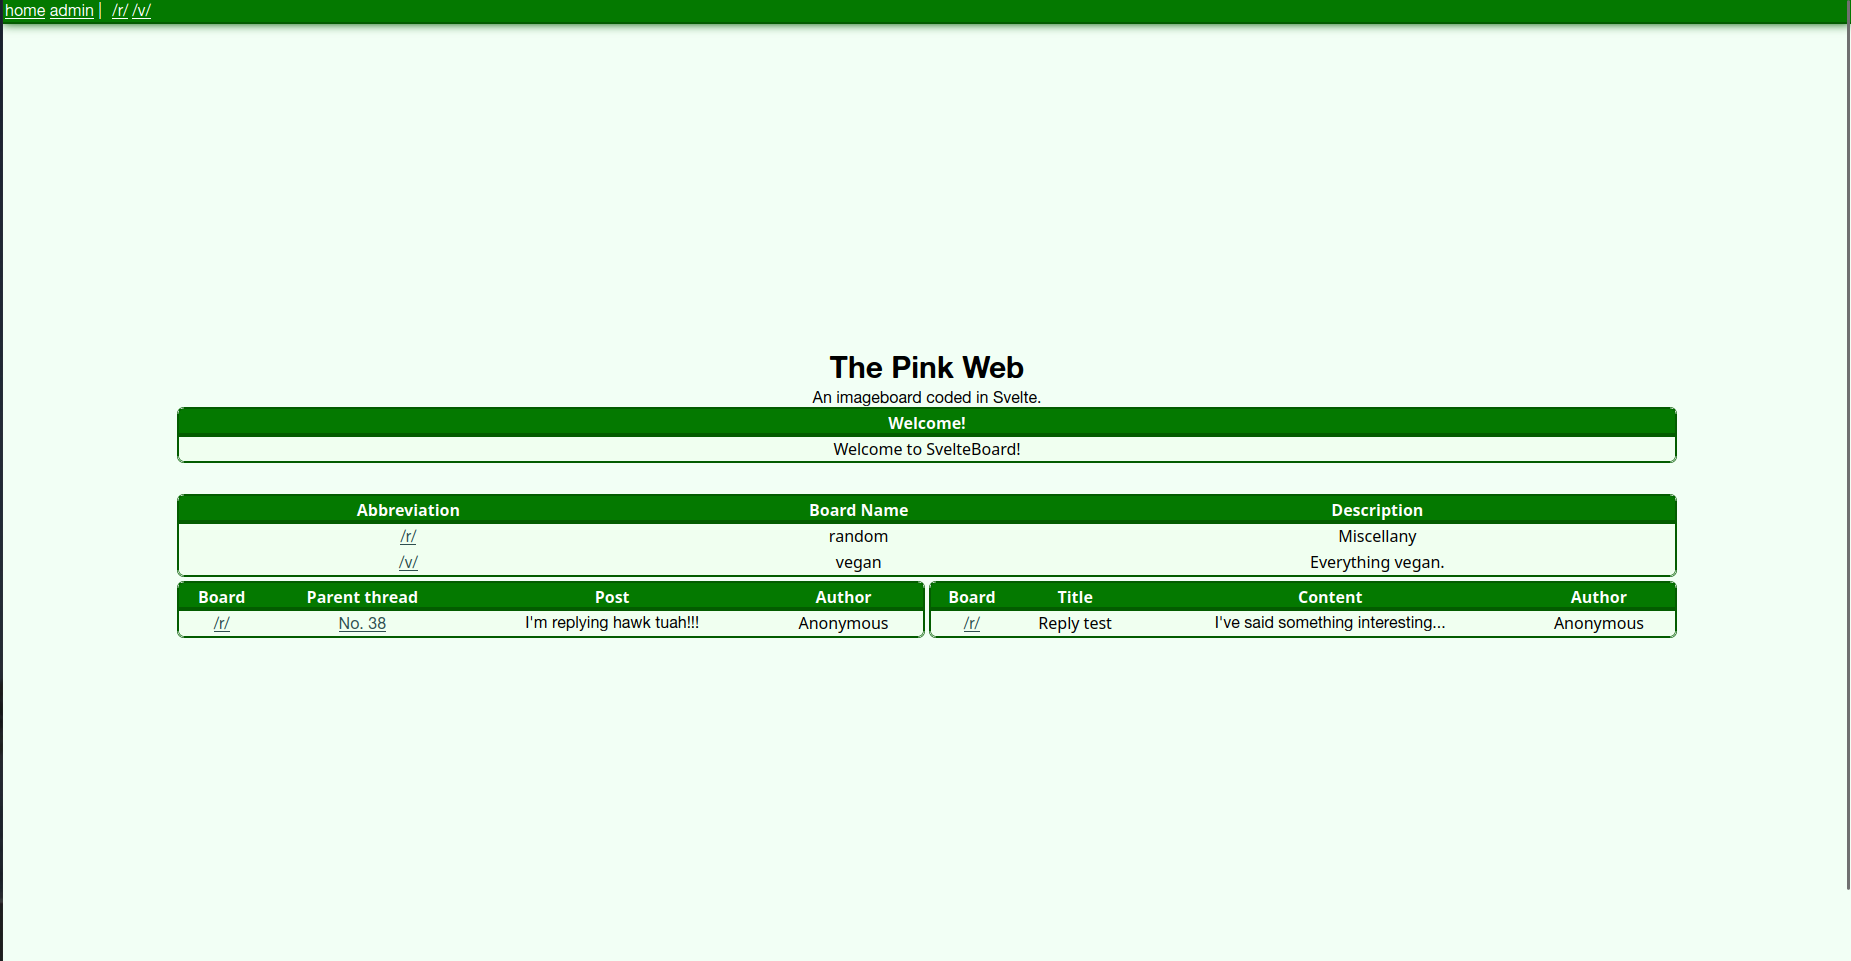
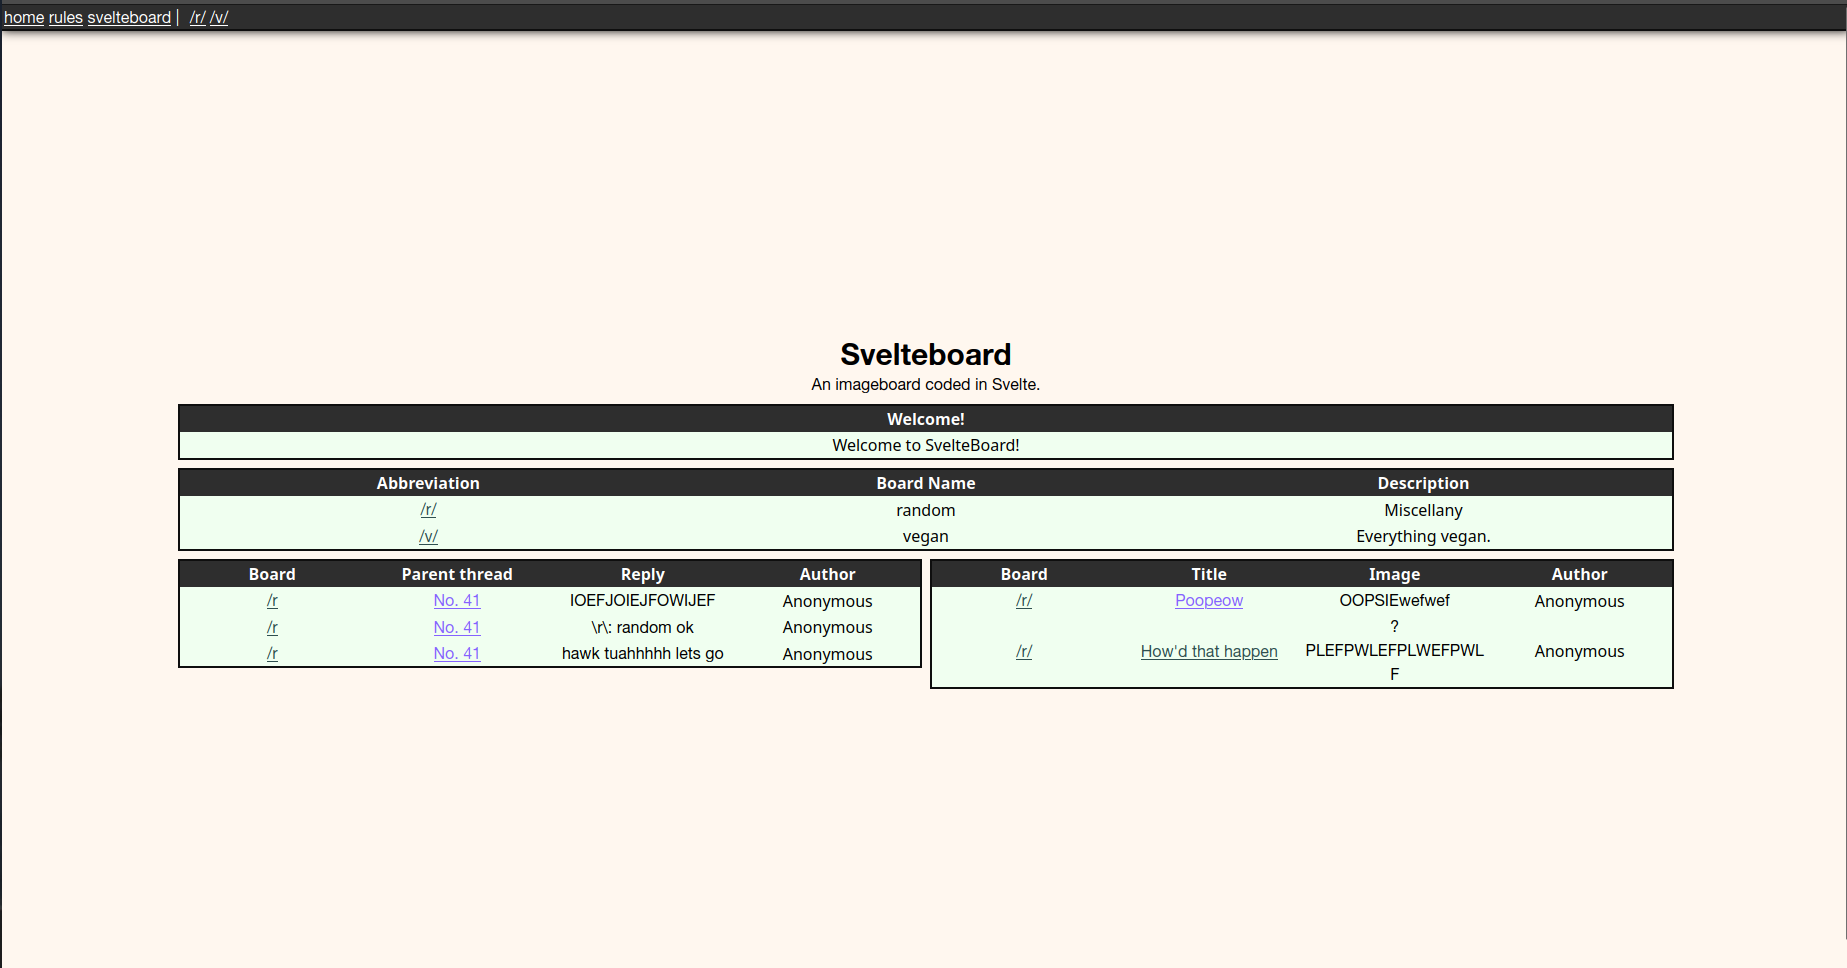
README

Changed region(s): [[0.0926, 0.3434, 0.9258, 0.718], [0.0, 0.0, 1.0, 0.9365]]

diff --git a/src/routes/+page.svelte b/src/routes/+page.svelte
@@ -11,7 +11,7 @@
 <div class="flex h-screen">
     <div class="container container-sm m-auto px-10 sm:p-5 text-center">
 
-        <img src={"/qdf.png"} class="mx-auto logo" alt="Queer Defense Front logo">
+        <h1 class="text-3xl">{data.global_name}</h1>
         <p>{data.global_description}</p>
         <table class="table-fixed mb-2 border-spacing-x-5 w-full mt-2">
             <thead>

diff --git a/README.md b/README.md
@@ -4,6 +4,11 @@
 
 An imageboard created with Svelte. No client-side Javascript so is safe for TOR and other applications.
 
+## Why Svelteboard?
+Other imageboard software requires that you fumble around with MariaDB, PHP, and a host of other software. With this, all you have to do is fill out your .env, type `npm install`, and run a few scripts in a Supabase instance. It's that simple.
+
+Additionally, there's no client-side Javascript in this software, making it ideal for applications like TOR, which don't permit any client-side Javascript at all.
+
 ## Deployment
 
 Deploying other people's software, especially the ones you find in their GitHub repos, is a huge pain in the ass. If something in here confuses you, please open an issue or DM me!
